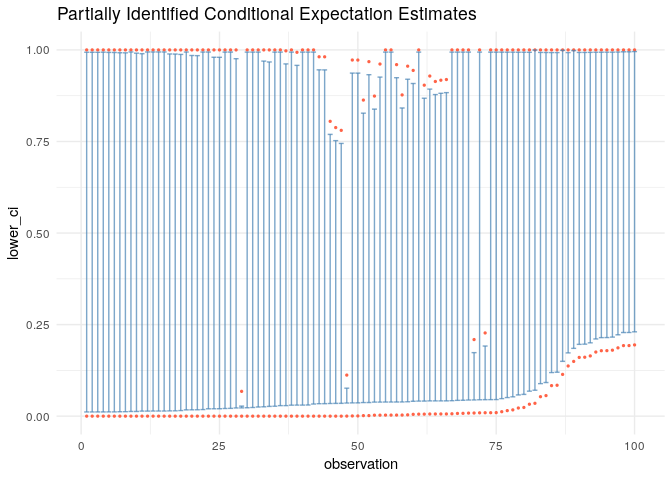
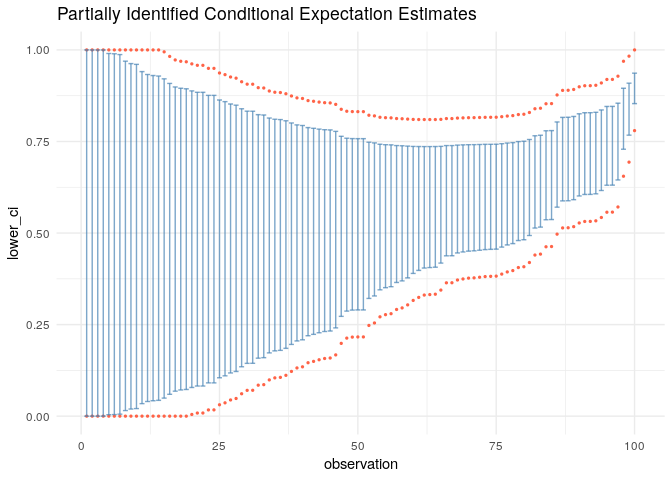
updated language and code in readme

Changed region(s): [[0.125, 0.25, 0.9688, 0.875], [0.125, 0.0938, 0.9688, 0.3125]]

diff --git a/README.md b/README.md
@@ -1,38 +1,46 @@
 <!-- README.md is generated from README.Rmd. Please edit that file -->
-rbounds
-=======
+rbounds: Estimating Bounds on Conditional Expectation Functions
+===============================================================
 
 The goal of rbounds is to estimate bounds on the location of parameters
-in models in which the value of the parameter cannot be uniquely
-identified. It was developed to estimate the conditional mean of a
-binary outcome with non-random missing outcomes. The code consists of
-implementations of estimators developed by Manski (2003) in particular,
-as well as other econometricians/statisticians. Functions are documented
-with references toward the relevant statistical and econometric
-literature.
+in models in which the value of the parameter can only be partially
+identified.
 
-Imagine for instance that we are interested in estimating *E*(*y*\|*x*)
-where *y* ∈ (0, 1). Unfortunately, we are missing some observations of
-*y*. Whether an observation is missing is denoted by a dummy variable
-*z*, where when *z* = 1 *y* is observed and otherwise the value of *y*
-is not observed. We observe the value of *x* for all observations –
-although this can be relaxed for other estimators.
+The package was developed to estimate the conditional mean of a binary
+outcome with non-random missing outcomes. At the moment the package
+contains one function which estimates bounds on a conditional mean using
+non-parametric kernel regression estimators from the `np` package. In
+the future I hope to extend the package to cover treatment effect
+estimation and some additional assumptions such as monotone regresion
+and monotone treatment response.
+
+Example of bounding the conditional mean
+----------------------------------------
+
+Imagine that we are interested in estimating *E*(*y*\|*x*) where
+*y* ∈ (0, 1). Unfortunately, we are missing some observations of *y*.
+Whether an observation is missing is denoted by a dummy variable *z*,
+where when *z* = 1 *y* is observed and otherwise the value of *y* is not
+observed. We have some covariates *x* whose value we observe for all
+observations.
 
 By the law of total probability it follows that
 *E*(*y*\|*x*) = *E*(*y*\|*x*, *z* = 1)*P*(*z* = 1\|*x*) + *E*(*y*\|*x*, *z* = 0)*P*(*z* = 0\|*x*).
-Each of the pieces of this equation can be estimated from the available
-data with the exception of *E*(*y*\|*x*, *z* = 0) which is the
+ Each of the pieces of this equation can be estimated from the available
+data with the exception of *E*(*y*\|*x*, *z* = 0), which is the
 conditional expectation of the outcome for the cases in which the
-outcome value is unobserved. However, the value that this function of
-the data can taken could be at most 1 – if all the unobserved outcomes
-were 1, or at least 0. Thus the true conditional mean must fall within
-the bounds:
+outcome value is unobserved.
+
+However, since 0 ≤ *y* ≤ 1, the unobserved function can take on the
+value of at most 1 – if all the unobserved outcomes were 1, or at least
+0. Thus the true conditional mean must fall within the bounds:
 *E*(*y*\|*x*, *z* = 1)*P*(*z* = 1\|*x*) ≤ *E*(*y*\|*x*) ≤ *E*(*y*\|*x*, *z* = 1)*P*(*z* = 1\|*x*) + (1 − *P*(*z* = 1\|*x*)).
+
 More generically, if we denote the minimum value the conditional outcome
 can take on as *γ*<sub>0</sub> and the maximum by *γ*<sub>1</sub>, then
 the conditional mean can be bounded by
 *E*(*y*\|*x*, *z* = 1)*P*(*z* = 1\|*x*) + *γ*<sub>0</sub>*P*(*z* = 0\|*x*) ≤ *E*(*y*\|*x*) ≤ *E*(*y*\|*x*, *z* = 1)*P*(*z* = 1\|*x*) + *γ*<sub>1</sub>*P*(*z* = 0\|*x*).
-The conditional expectations in these expressions can be estimated
+ The conditional expectations in these expressions can be estimated
 parametrically or non-parametrically, and confidence intervals can be
 derived for the locations of the endpoints.
 
@@ -54,7 +62,7 @@ library(rbounds)
 set.seed(42)
 N <- 100
 x <- rnorm(N)
-z <- rbinom(N, 1, x^2/max(x^2))
+z <- rbinom(N, 1, pnorm(x))
 y <- rbinom(N, 1, pnorm(x))
 
 df <- data.frame(y, x, z)
@@ -78,7 +86,7 @@ Multistart 1 of 1 |
                    
 res
 #> Av. Lower CI Av. Lower Bound Av. Upper Bound Av. Upper CI
-#>   0.02941        0.05817         0.93362       0.94874
+#>   0.24089        0.30612         0.82252       0.88991
 
 # We can plot it with a generic plotting method
 plot(res)
